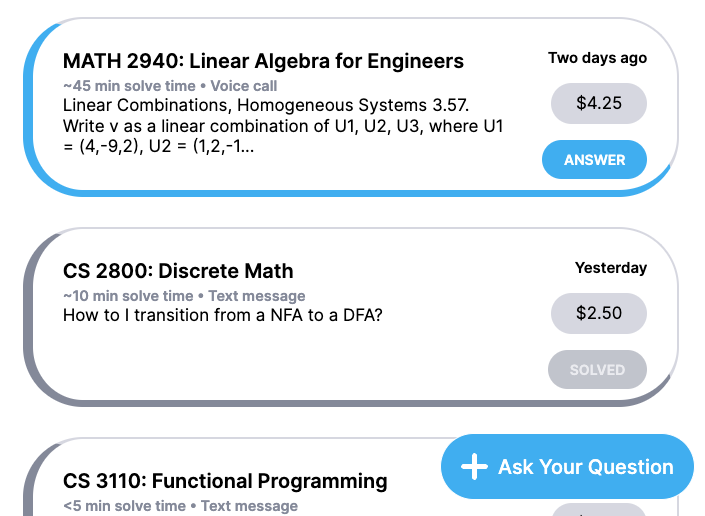
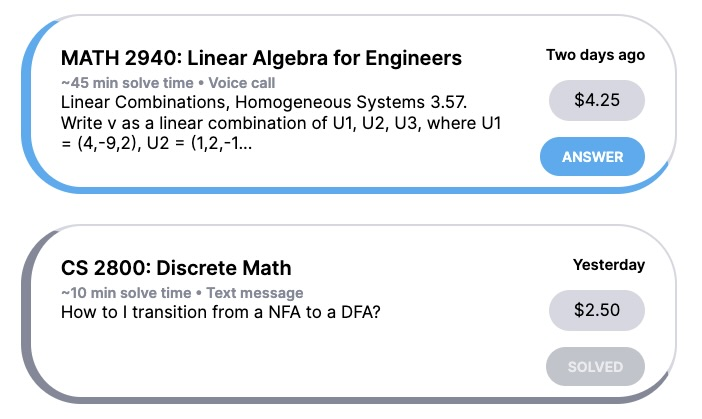
Fix create offer removed

diff --git a/edify/backend/offer/routes.py b/edify/backend/offer/routes.py
@@ -65,7 +65,7 @@ def create_offer(args) -> flask_typing.ResponseReturnValue:
     # Check if user has made an unresolved offer to question
     existing_offer = (
         db.session.query(Offer)
-        .filter_by(question_id=question_id, user_id=user.id)
+        .filter_by(question_id=question_id, user_id=user.id, active=True)
         .first()
     )
     if existing_offer:
